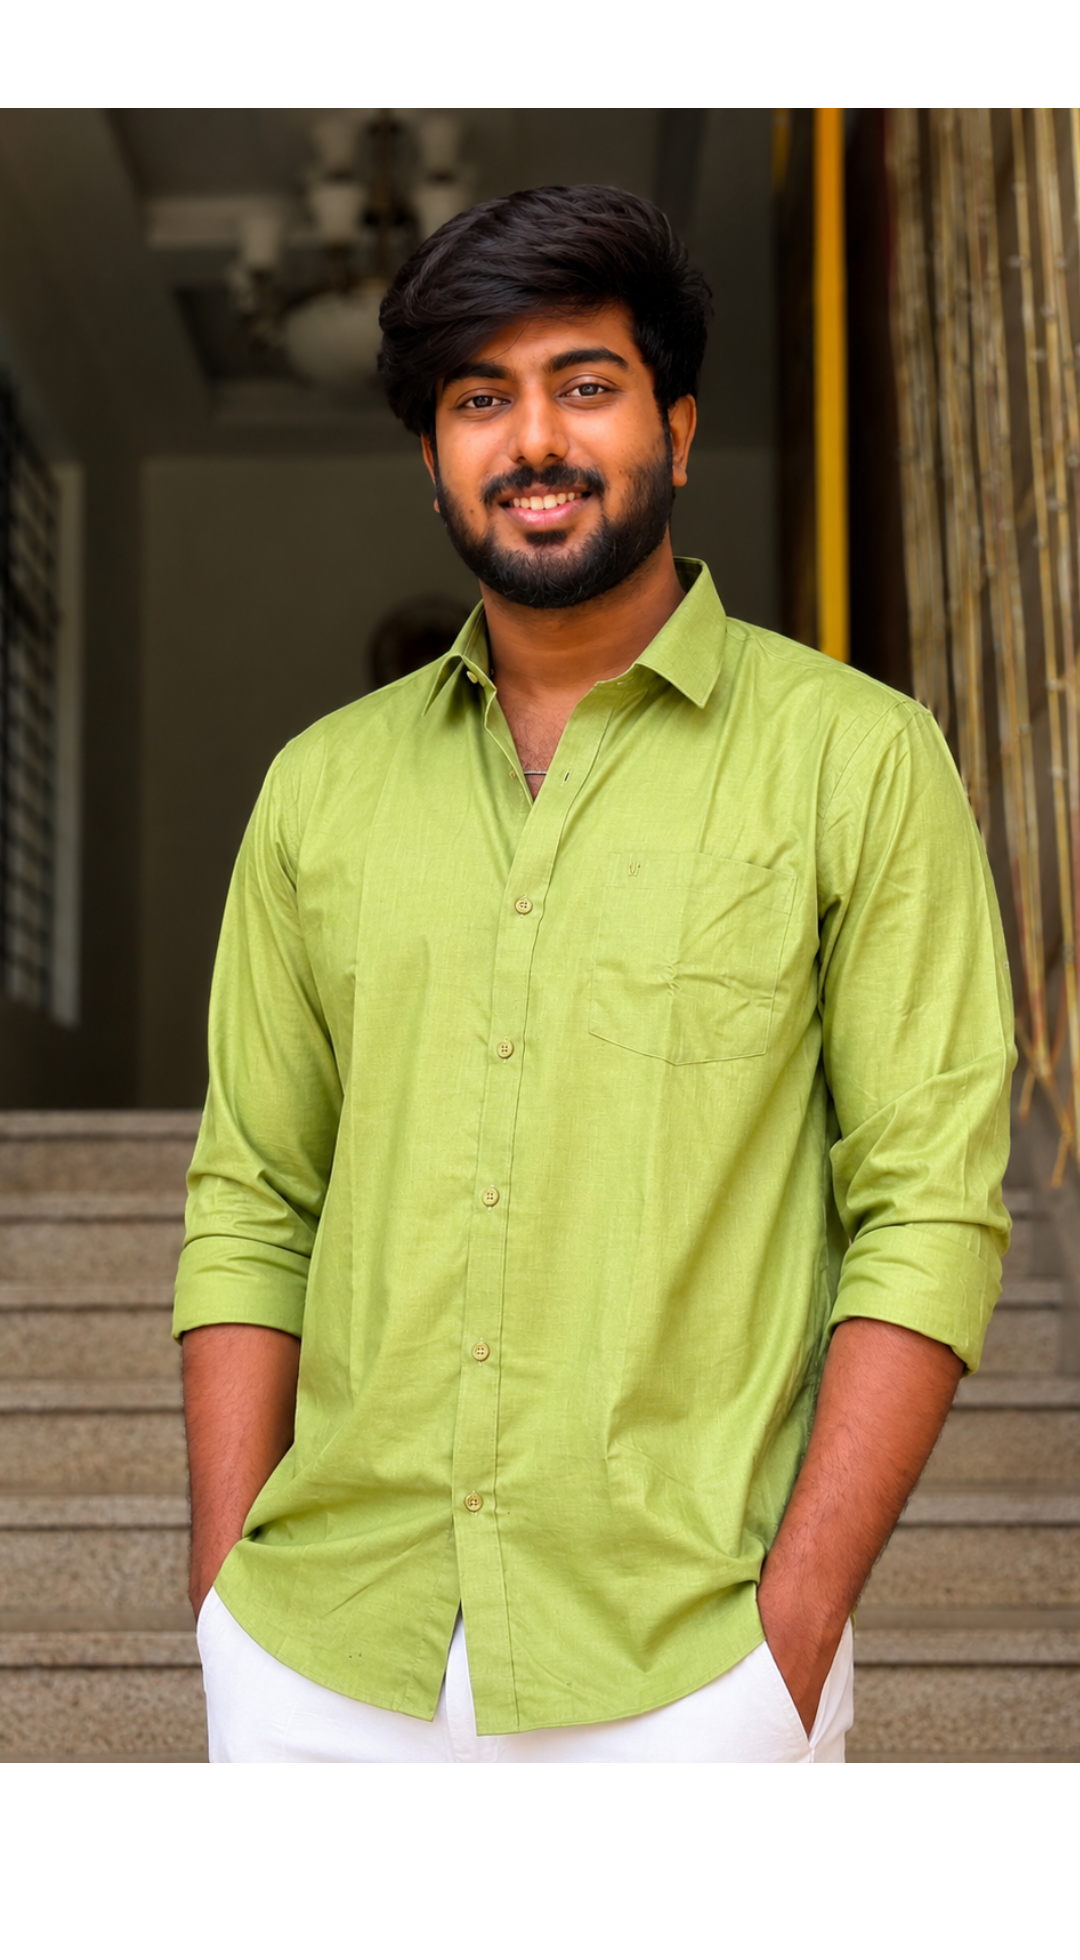
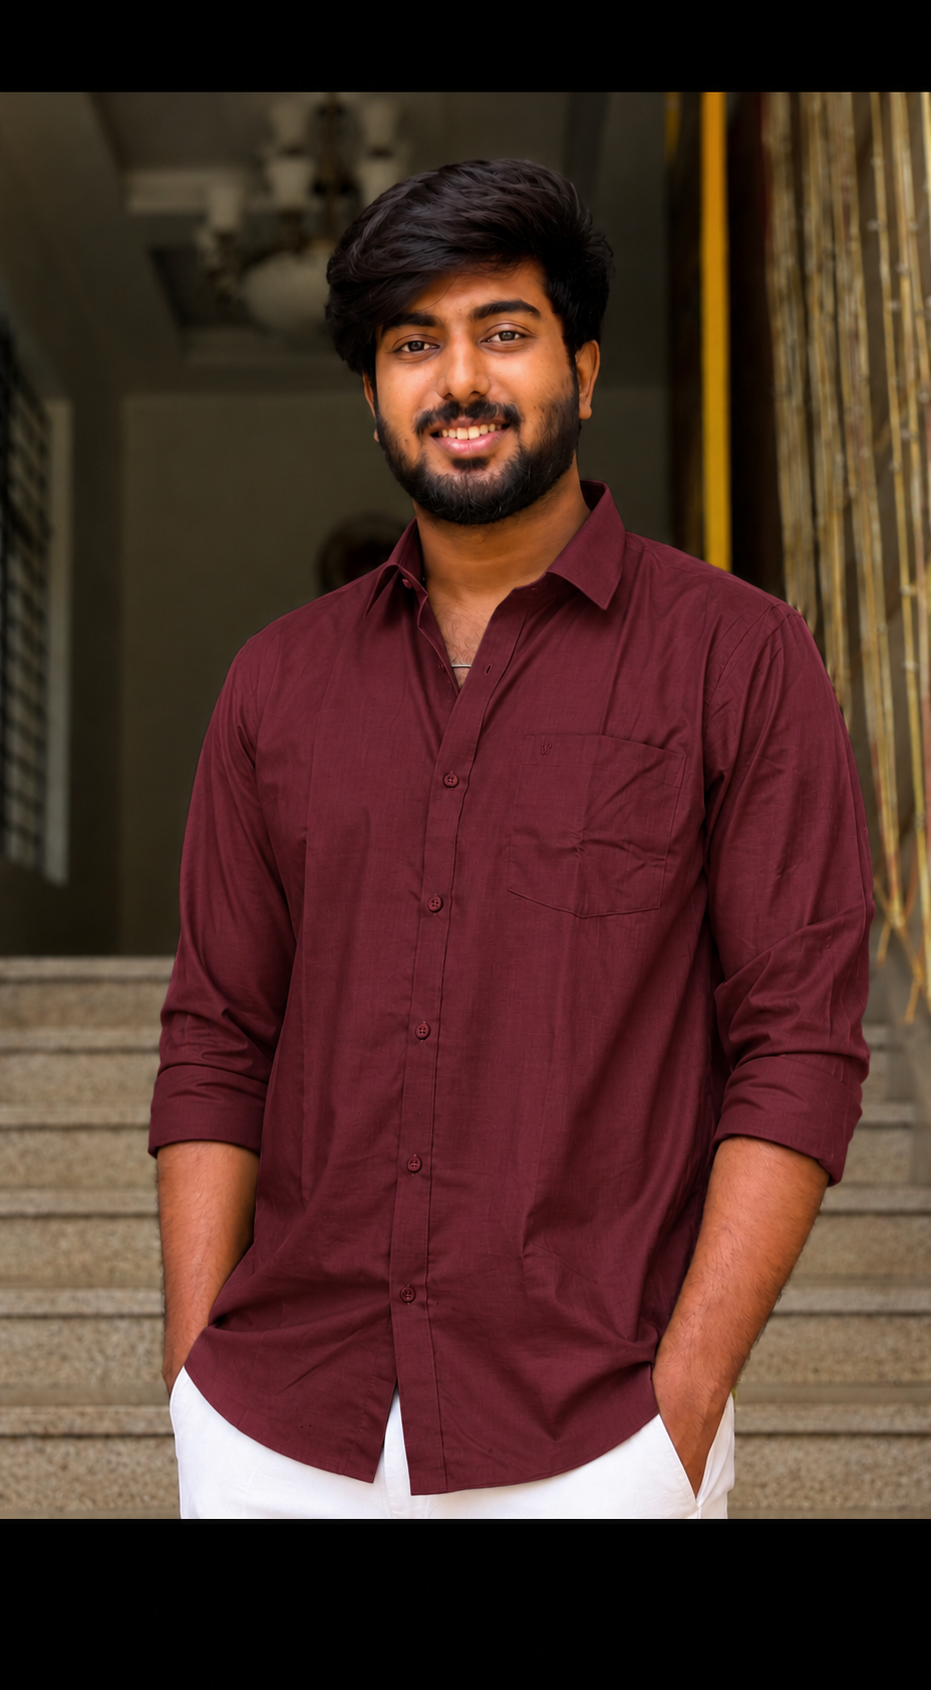
feat: refine portfolio presentation and client work

diff --git a/src/data/portfolio.ts b/src/data/portfolio.ts
@@ -1,8 +1,8 @@
 export const profile = {
   name: 'Vasanth Srinivas',
   email: 'vasanthramesh.che@gmail.com',
-  calUrl: 'https://cal.com/your-name/intro',
-  linkedin: 'https://www.linkedin.com/invasanth-srinivas07/',
+  calUrl: 'https://cal.com/vasanth/30min',
+  linkedin: 'https://www.linkedin.com/in/vasanth-srinivas07/',
   whatsapp: '#',
   instagram: 'https://www.instagram.com/meisvasanth/',
   introduction:
@@ -58,7 +58,6 @@ type PortfolioClient = {
   summary: string;
   videos: Array<{
     bunnyVideoId: string;
-    duration: string;
     format: 'video' | 'reel';
     aspect: 'landscape' | 'portrait' | 'square';
   }>;
@@ -69,17 +68,15 @@ export const clients = [
     id: 'bharath-benz',
     tab: 'Bharath Benz',
     name: 'Bharath Benz',
-    summary: 'Two selected video edits created for Bharath Benz.',
+    summary: 'Kilometer Millionaire is a 10-episode content series created for BharatBenz (Daimler Truck), celebrating the journeys, experiences, and achievements of drivers who have crossed remarkable milestones on the road. I worked as the Editor for the entire 10-episode series, taking responsibility for shaping the raw footage into engaging and impactful stories. My role involved story-driven editing, pacing, transitions, visual treatment, audio synchronization, colour grading, and overall post-production. Each episode was crafted to highlight the human stories behind the kilometers, while maintaining BharatBenz’s professional brand identity and visual language. Being part of the complete series allowed me to maintain consistency while giving every episode its own narrative character.',
     videos: [
       {
         bunnyVideoId: 'fdea8a89-0387-4869-812b-7be2f848c679',
-        duration: '00:39',
         format: 'video',
         aspect: 'landscape',
       },
       {
         bunnyVideoId: 'c7432a3d-380a-4dd8-95c6-e337a4564c5f',
-        duration: '04:10',
         format: 'video',
         aspect: 'landscape',
       },
@@ -89,29 +86,30 @@ export const clients = [
     id: 'mrf',
     tab: 'MRF',
     name: 'MRF',
-    summary: 'Four selected video edits created for MRF.',
+    summary: 'MRF Racing & Tyres was a high-energy motorsport content project focused on showcasing MRF’s performance, racing legacy, and tyre technology. I worked as a Video Editor, transforming race footage, event coverage, and brand visuals into dynamic and engaging content. My role involved crafting fast-paced edits, synchronizing visuals with music and sound design, creating impactful transitions, colour grading, and maintaining a consistent visual identity across the content. The project required a strong understanding of action-driven storytelling and timing to capture the intensity and excitement of motorsport while effectively communicating the performance and reliability associated with MRF Racing and Tyres.',
     videos: [
       {
         bunnyVideoId: 'ea117203-c1ba-4684-8f75-ac9397528001',
-        duration: '00:25',
         format: 'video',
         aspect: 'square',
       },
       {
         bunnyVideoId: '9dc12266-3f32-4163-be45-89f95fe8c7e5',
-        duration: '00:21',
         format: 'video',
         aspect: 'square',
       },
       {
         bunnyVideoId: '4d1bfdb9-6fb6-452d-8fd1-bac003ab5bfe',
-        duration: '00:32',
         format: 'video',
         aspect: 'square',
       },
       {
-        bunnyVideoId: '73883c79-df22-4750-a9b7-b0601450c290',
-        duration: '01:25',
+        bunnyVideoId: '3687933c-c5ac-4ea8-ab79-d483417f3821',
+        format: 'video',
+        aspect: 'landscape',
+      },
+      {
+        bunnyVideoId: '40998bfb-660e-4523-adad-58aa3e3505b3',
         format: 'video',
         aspect: 'landscape',
       },
@@ -121,31 +119,37 @@ export const clients = [
     id: 'marina-mall',
     tab: 'Marina Mall',
     name: 'Marina Mall',
-    summary: 'Four selected video edits created for Marina Mall.',
+    summary: 'The Marina Mall was a dynamic brand content project where I worked closely with the client to understand their vision, creative requirements, and communication goals. As a Video Editor, I was responsible for transforming concepts and raw footage into engaging, visually appealing content that aligned with the mall’s brand identity. I collaborated closely with the client throughout the creative and post-production process, incorporating feedback and ensuring each deliverable met their expectations. My work involved editing, pacing, transitions, colour grading, sound design, and overall visual storytelling, with a focus on creating polished content that effectively captured the energy, experiences, and lifestyle associated with Marina Mall.',
     videos: [
       {
         bunnyVideoId: '8501e128-0047-4647-88ca-36c1a00a7a00',
-        duration: '00:26',
         format: 'reel',
         aspect: 'portrait',
       },
       {
         bunnyVideoId: '64c69c3c-938c-4b67-8fde-6d206f3a8426',
-        duration: '00:20',
         format: 'reel',
         aspect: 'portrait',
       },
       {
         bunnyVideoId: 'cfbd3d39-d56c-4697-a2b6-e4c96b4bfd3d',
-        duration: '00:26',
         format: 'reel',
         aspect: 'portrait',
       },
       {
         bunnyVideoId: '7e7e803e-e712-4f56-934e-307dd1aa565e',
-        duration: '00:21',
         format: 'reel',
         aspect: 'portrait',
+      },
+      {
+        bunnyVideoId: '0d656352-f69a-4187-8989-c98d06637048',
+        format: 'reel',
+        aspect: 'portrait'
+      },
+      {
+        bunnyVideoId: '13e7da23-0b4f-4bf9-bf57-5a26052f7527',
+        format: 'reel',
+        aspect: 'portrait'
       },
     ],
   },
@@ -153,29 +157,20 @@ export const clients = [
     id: 'sims',
     tab: 'SIMS',
     name: 'SIMS',
-    summary: 'Four selected video edits created for SIMS.',
+    summary: 'SIMS Hospital was a healthcare-focused content project where I worked as a Video Editor, transforming medical footage, interviews, and promotional content into clear, engaging, and professionally structured videos. My role involved editing, storytelling, pacing, transitions, colour grading, sound design, and overall post-production. I focused on presenting healthcare information in a visually engaging and easily understandable format while maintaining a professional and trustworthy tone throughout the content. The project required careful attention to detail and strong visual storytelling to effectively communicate medical topics, hospital services, and patient-focused narratives while maintaining the brand’s visual identity.',
     videos: [
       {
         bunnyVideoId: '897864d1-b541-4179-88a9-f9edd728d42e',
-        duration: '00:33',
         format: 'reel',
         aspect: 'portrait',
       },
       {
         bunnyVideoId: '6ef45598-7b4d-4b10-86c6-317554be1853',
-        duration: '00:34',
         format: 'reel',
         aspect: 'portrait',
       },
       {
         bunnyVideoId: '9cda2eb4-4e11-4e10-a4e8-ead87aeb5ee5',
-        duration: '00:30',
-        format: 'reel',
-        aspect: 'portrait',
-      },
-      {
-        bunnyVideoId: 'd65b7069-103b-4b58-b074-d23025f08cd4',
-        duration: '00:33',
         format: 'reel',
         aspect: 'portrait',
       },
@@ -185,29 +180,20 @@ export const clients = [
     id: 'fanly',
     tab: 'Fanly',
     name: 'Fanly',
-    summary: 'Four selected video edits created for Fanly.',
+    summary: 'Fanly is a fan engagement app designed to bring fans and their favourite creators, celebrities, and personalities closer through interactive digital experiences. I worked as a Video Editor, creating engaging promotional and social media content to showcase the platform and its features. My role involved transforming concepts and raw footage into dynamic, attention-grabbing videos through creative editing, motion graphics, transitions, sound design, and colour grading. The content was designed to capture the excitement of fan interaction while maintaining a modern and energetic visual style. This project allowed me to combine storytelling and digital content creation to communicate the app’s concept effectively and engage its target audience.',
     videos: [
       {
         bunnyVideoId: '7f8c574e-01ef-42a6-8be4-604ac47632f4',
-        duration: '00:41',
-        format: 'reel',
-        aspect: 'portrait',
-      },
-      {
-        bunnyVideoId: '3b4586ae-d88e-47b5-a484-5ca6c86d04c5',
-        duration: '00:14',
         format: 'reel',
         aspect: 'portrait',
       },
       {
         bunnyVideoId: '16b8eb17-e5b8-4e9f-bc40-dafe8690e074',
-        duration: '00:13',
         format: 'reel',
         aspect: 'portrait',
       },
       {
         bunnyVideoId: 'e030a181-1672-418b-92fb-ece2e5f28142',
-        duration: '00:13',
         format: 'reel',
         aspect: 'portrait',
       },
@@ -217,41 +203,35 @@ export const clients = [
     id: 'restaurant',
     tab: 'Restaurant',
     name: 'Restaurant edits',
-    summary: 'Six food and hospitality video edits.',
+    summary: 'I worked on restaurant and food-brand content, creating visually engaging videos designed to showcase food, ambience, dining experiences, and brand identity. As a Video Editor, I transformed raw footage into polished content using creative storytelling, dynamic pacing, transitions, sound design, colour grading, and motion graphics. The edits were crafted to highlight the visual appeal of dishes while creating an inviting and memorable experience for the audience. From food-focused reels to promotional and social media content, I focused on making every frame visually appealing and aligned with the restaurant’s overall brand aesthetic, helping communicate the experience beyond just the food.',
     videos: [
       {
         bunnyVideoId: 'edf76f8b-d5de-4a73-ae12-04b247b18dcf',
-        duration: '00:49',
         format: 'reel',
         aspect: 'portrait',
       },
       {
         bunnyVideoId: 'aed133d6-7a97-4807-b92f-76e7561fe293',
-        duration: '00:24',
         format: 'reel',
         aspect: 'portrait',
       },
       {
         bunnyVideoId: 'b6b8f1a1-0b5e-4ded-b255-673b37cee676',
-        duration: '00:18',
         format: 'reel',
         aspect: 'portrait',
       },
       {
         bunnyVideoId: 'aad682b5-bfd8-446a-b47f-4396a938d254',
-        duration: '00:34',
         format: 'reel',
         aspect: 'portrait',
       },
       {
         bunnyVideoId: 'd17243af-cbc6-4b6b-8c49-cc4da4d72422',
-        duration: '00:22',
         format: 'reel',
         aspect: 'portrait',
       },
       {
         bunnyVideoId: '01735fb2-812c-450e-b0ac-32da27e4f297',
-        duration: '00:17',
         format: 'reel',
         aspect: 'portrait',
       },
@@ -261,29 +241,20 @@ export const clients = [
     id: 'celebrities',
     tab: 'Celebrities',
     name: 'Celebrity edits',
-    summary: 'Four selected personality-led video edits.',
+    summary: 'Worked across celebrity events and entertainment projects, taking on responsibilities in both Event Management and Video Production. My role involved coordinating event activities, managing on-ground requirements, supporting talent and production teams, and ensuring the smooth execution of events. Alongside event management, I handled video content and post-production, creating engaging edits that captured key moments, performances, and experiences. This combination of creative and operational responsibilities allowed me to contribute throughout the event lifecycle—from planning and coordination to capturing and presenting the final visual story.',
     videos: [
       {
         bunnyVideoId: 'aea4689d-6c46-42c1-b62e-df7ec698c8b9',
-        duration: '01:01',
         format: 'reel',
         aspect: 'portrait',
       },
       {
         bunnyVideoId: '33401354-3497-455a-8690-e2c9d15ea1d3',
-        duration: '01:04',
         format: 'reel',
         aspect: 'portrait',
       },
       {
         bunnyVideoId: '073dc9c5-88cc-42bd-ae68-7c75fd95bca6',
-        duration: '01:12',
-        format: 'reel',
-        aspect: 'portrait',
-      },
-      {
-        bunnyVideoId: '583423a5-b921-410b-8e49-d26e99bc3858',
-        duration: '00:35',
         format: 'reel',
         aspect: 'portrait',
       },
@@ -293,29 +264,20 @@ export const clients = [
     id: 'personal-branding',
     tab: 'Personal branding',
     name: 'Personal branding',
-    summary: 'Four videos shaped for personal brands.',
+    summary: 'Worked on personal branding projects for individual clients, developing visual content that reflected their personality, professional identity, and personal brand. My responsibilities included understanding the client’s vision, shaping creative concepts, and producing engaging video content for social media and digital platforms. I focused on storytelling, visual consistency, editing, motion graphics, colour grading, and content presentation to create a strong and recognisable brand presence. Each project involved adapting the creative approach to suit the client’s unique style, audience, and objectives, while maintaining a polished and professional visual identity across their content.',
     videos: [
       {
-        bunnyVideoId: 'd1dfbebf-3699-4df1-8279-dbad25b1cb3a',
-        duration: '00:52',
-        format: 'reel',
-        aspect: 'portrait',
-      },
-      {
         bunnyVideoId: '0c3a8251-cc85-4fd6-89e2-22e5efcdc325',
-        duration: '00:35',
         format: 'reel',
         aspect: 'portrait',
       },
       {
         bunnyVideoId: '86a3f443-daed-48cd-83b5-b1d6f69eac64',
-        duration: '01:01',
         format: 'reel',
         aspect: 'portrait',
       },
       {
         bunnyVideoId: '8285d60c-689a-482a-9bd3-3375902b4f60',
-        duration: '00:47',
         format: 'reel',
         aspect: 'portrait',
       },
@@ -325,25 +287,32 @@ export const clients = [
     id: 'ai-works',
     tab: 'AI works',
     name: 'AI works',
-    summary: 'Three edits exploring AI-assisted visual storytelling.',
+    summary: 'Worked on AI-driven creative projects, exploring the use of artificial intelligence to develop innovative visuals, concepts, and video content. My work involved combining AI-generated assets with traditional editing and post-production techniques to create unique and visually engaging outputs. I experimented with AI tools for image generation, video generation, visual enhancement, concept development, and creative compositing. The projects focused on pushing creative boundaries while maintaining strong storytelling, visual quality, and brand relevance. By integrating AI into the creative workflow, I was able to develop ideas faster, experiment with different visual directions, and create content that blended technology with modern visual storytelling.',
     videos: [
       {
         bunnyVideoId: 'c9b4453b-866f-4bff-bcaf-d9833f99a9e4',
-        duration: '01:19',
         format: 'video',
         aspect: 'landscape',
       },
       {
         bunnyVideoId: 'b71e030a-b1bc-4335-80ea-83529974c99a',
-        duration: '00:42',
         format: 'reel',
         aspect: 'portrait',
       },
       {
         bunnyVideoId: 'c0c105b0-3b12-4b58-8143-c36ee72d3d9d',
-        duration: '00:23',
         format: 'reel',
         aspect: 'portrait',
+      },
+      {
+        bunnyVideoId: '3b7ac186-9d37-49a8-befb-acddadc48162',
+        format: 'reel',
+        aspect: 'portrait',
+      },
+      {
+        bunnyVideoId: 'a167675b-5976-4455-94e1-a1fec8dccaba',
+        format: 'video',
+        aspect: 'landscape',
       },
     ],
   },
@@ -355,19 +324,21 @@ export const clients = [
     videos: [
       {
         bunnyVideoId: '3ea399f5-fb7d-4029-848e-33e1f560ecd1',
-        duration: '00:25',
         format: 'video',
         aspect: 'landscape',
       },
       {
         bunnyVideoId: '7a086fbd-cb15-4ca0-a6d7-a9ecabe39962',
-        duration: '00:39',
         format: 'reel',
         aspect: 'portrait',
       },
       {
         bunnyVideoId: 'fbd6c6ff-fa3b-4a24-a3de-ad49962faf61',
-        duration: '00:22',
+        format: 'reel',
+        aspect: 'portrait',
+      },
+      {
+        bunnyVideoId: '583423a5-b921-410b-8e49-d26e99bc3858',
         format: 'reel',
         aspect: 'portrait',
       },

diff --git a/src/styles/portfolio-theme.css b/src/styles/portfolio-theme.css
@@ -6,6 +6,7 @@
   --font-heading: "Geist Variable", Arial, sans-serif;
   --portfolio-media: #d9d8d3;
   --portfolio-media-radius: 0.5rem;
+  --portfolio-button-radius: 0.75rem;
   --portfolio-player-accent: #9e5164;
   --portfolio-player-foreground: #f1ebdd;
   --portfolio-player-surface: #211317;
